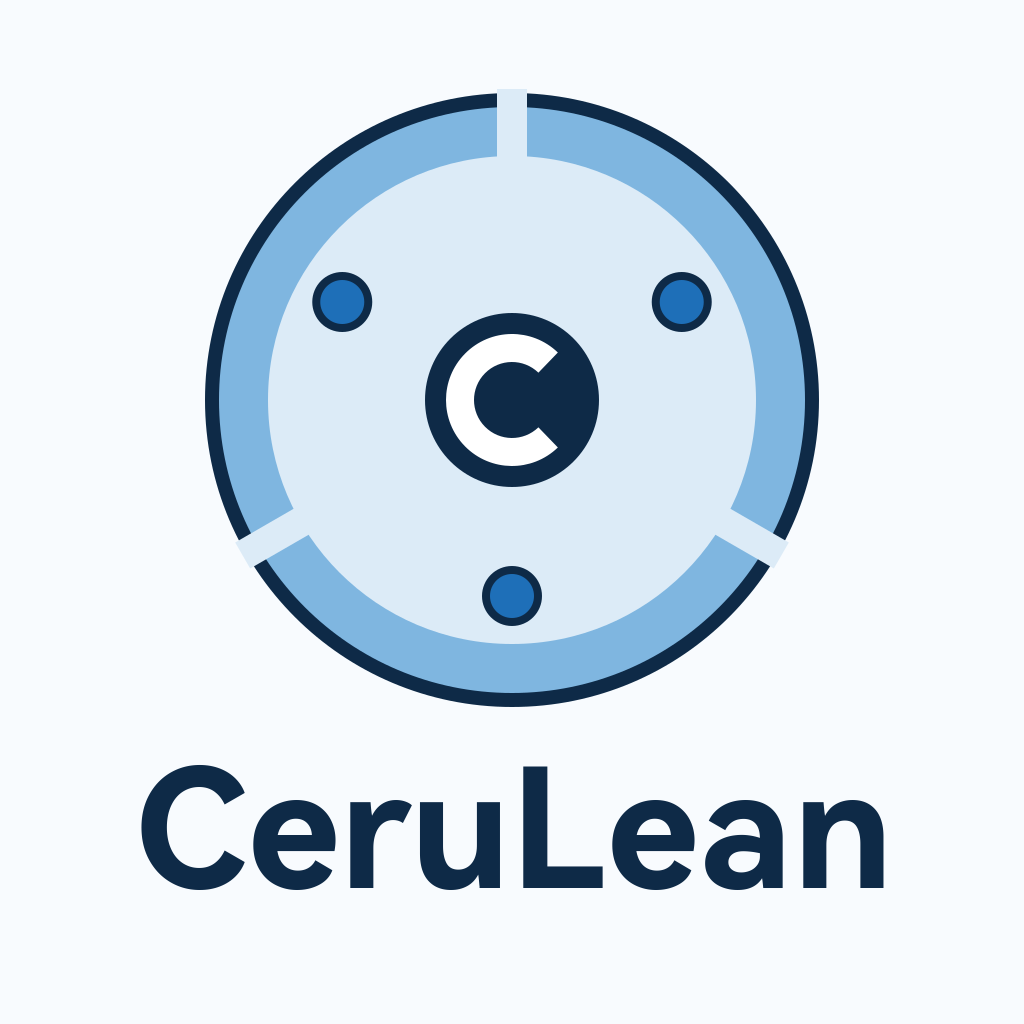
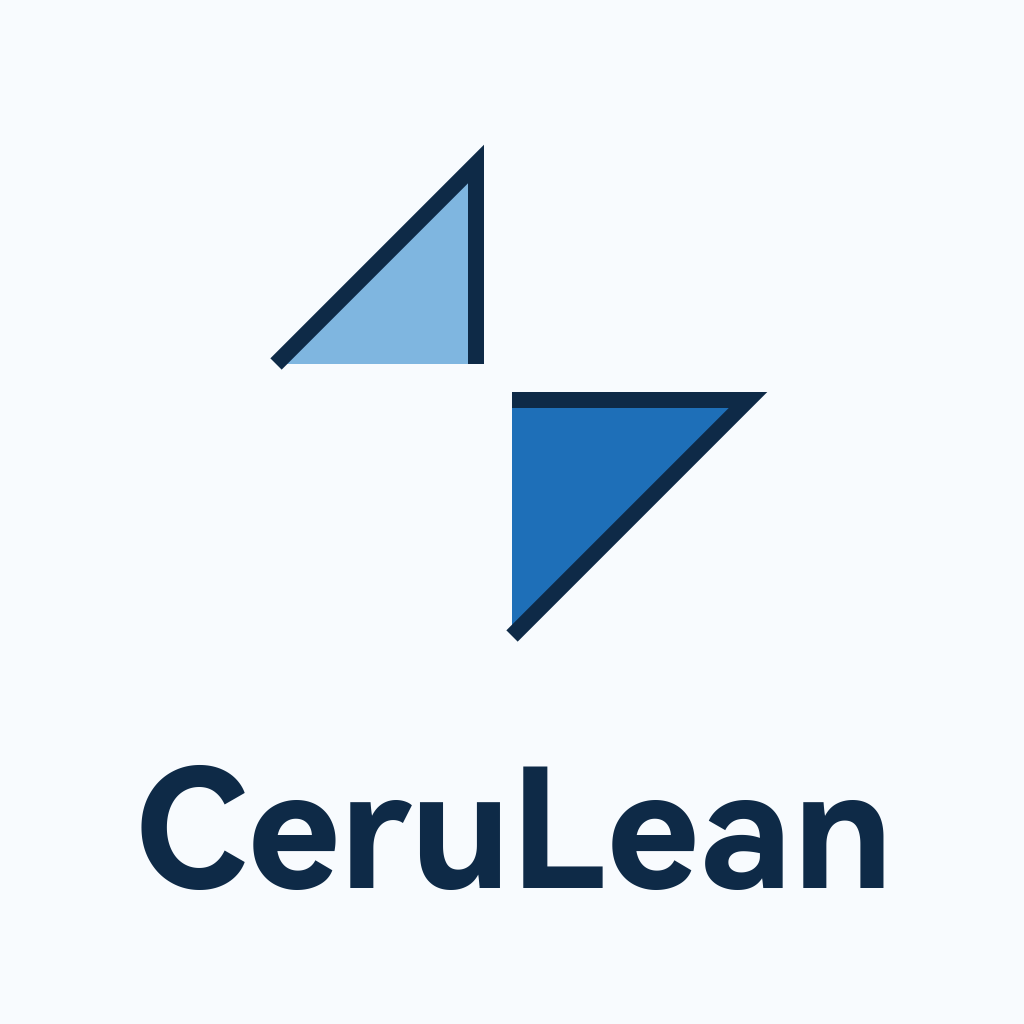
重画图标：两个直角顶点相对的直角三角形（借"跨区域交接"这一具体事物抽象）
用户定稿的构图：**两个直角三角形，直角顶点相对，分居左上与右下，右下略大**。
上版（圆形底盘 + 三条分区缝 + C 字徽）被判"太随意"，这版刻意只留两个形状 + 字标。

* 几何（全部参数化在 gen_icon.py 头部）：直角边**与坐标轴平行**（外缘稳定、斜边自然
  形成主对角线）；左上腿长 200、右下 236（×1.18，"略大"），直角顶点间留 36 的间隙让
  "相对"看得清；并用 off = −(b−a)/2 把两个顶点整体平移，使**外接矩形仍以画面中心为中心**
  （右下更大但不让构图偏向一边——生成时会打印实算的外接矩形与中心供核对）。
* 借的具体事物 = 一次**交接/投递**：两块楔形沿对角线互相指向对方。这正是本项目最核心的
  那件事的图形抽象（AwaitableDispatch 投递、clone 两跳、EXP 链挂起/恢复都是把一块工作
  从一个区域交给另一个区域）；右下略大给出方向与轻重，避免中心对称的死板。
* 配色沿用原家族（青蓝 #7FB6E0 / #1E6FB8 + 深藏青 #0E2A47 描边与字标），去掉圆形底盘。

工具链修复与补齐：
* 新增 tools/icon/rasterize.sh（编译 + 渲染 1024/256 两档），栅格化器编译**必须加 rpath**：
  harmonybrew 的 cairo 不在默认库搜索路径里，否则二进制能链上但运行时
  报 "Error loading shared library libcairo.so.2"（踩过）。编译产物已加进 .gitignore。
* 保持只用 svg2png.c 支持的 rect/circle/line/path/text（**无 g/无 polygon/无渐变**），
  三角形一律走 <path> 的 M/L/Z + 扁平填充。
* NOTICE §5 补构图与设计意图说明。

实测：assets/icon.svg(768B) / icon.png(1024) / icon-256.png(256) 已重新生成，
两档均已目视核对（256 下两块形状与字标仍清晰可辨）。

Changed region(s): [[0.1875, 0.0625, 0.8125, 0.6875]]

diff --git a/tools/icon/gen_icon.py b/tools/icon/gen_icon.py
@@ -2,74 +2,79 @@
 # -*- coding: utf-8 -*-
 """生成 CeruLean 的图标 SVG。
 
-设计（与 AzureBranches 图标同族、但身份不同）:
-  AzureBranches = 浅青底 + 深藏青线条的"分支/迷宫"环 + 字标
-  CeruLean     = 青蓝底 + 深藏青线条的"分区残片"环（区域划分）+ C 字徽 + 字标
-  共同点: 圆形徽记 + 粗体字标 + 深色描边，保证一眼看出是同一系列。
+设计（2026-10-16 改版：用户定的构图）
+------------------------------------
+**两个直角三角形，直角顶点相对，分居左上与右下，右下略大。**
+
+借的具体事物 = 一次**交接/投递**：两块楔形沿对角线互相指向对方，直角顶点几乎相接。
+这正是本项目最核心的那件事在图形上的抽象——跨区域的工作交接
+（`AwaitableDispatch` 投递、clone 两跳、EXP 链的挂起/恢复都在把"一块工作"从一个区域
+交给另一个区域）。右下那块**略大**，让构图有方向与轻重，而不是中心对称的死板图形。
+
+几何（1024 画布，全部参数可调）
+-----------------------------
+* 令 a = 左上腿长，b = 右下腿长（b = a × RATIO > a），g = 顶点间沿单轴的半间隙；
+* 两块三角形的**直角边都与坐标轴平行**（于是外缘稳定、斜边自然形成主对角线）；
+* 直角顶点 V1 = C − (g,g) + off，V2 = C + (g,g) + off，
+  其中 C 是徽记中心，off = (−(b−a)/2, −(b−a)/2)；
+* off 的作用：让**整体外接矩形仍以 C 为中心**（右下更大但不让画面偏向一边）。可自行验算：
+      xmin = V1.x − a, xmax = V2.x + b  ⇒  (xmin+xmax)/2 = C.x
+* 左上三角形 = (V1.x−a, V1.y) → (V1.x, V1.y−a) → V1  （水平腿、竖直腿、斜边朝左上）
+  右下三角形 = V2 → (V2.x+b, V2.y) → (V2.x, V2.y+b)
+
+配色沿用原图标家族（青蓝 + 深藏青描边），去掉原来的圆形底盘与分区缝 —— 上版被判"太随意"，
+这版刻意只留两个形状 + 字标。
+
+渲染：`tools/icon/rasterize.sh`（cairo，见 svg2png.c）。
+注意 svg2png.c **只支持 rect/circle/line/path/text**：不能用 <g>/<polygon>/渐变，
+所以三角形一律用 <path> 的 M/L/Z，颜色走扁平填充。
 """
-import math, os
+import os
 
 W = H = 1024
-CX, CY, R = 512.0, 400.0, 300.0          # 徽记圆心与半径
-BG      = "#F8FBFE"
-LIGHT   = "#DCEBF7"                       # 区域填充（青蓝）
-MID     = "#7FB6E0"                       # 区域底色（次青蓝）
-DEEP    = "#0E2A47"                       # 深藏青：描边/字标
-ACCENT  = "#1E6FB8"                       # 强调色：核点
-SEAM_W  = 30                              # 分区缝隙宽度
-RIM_W   = 14                              # 外圈描边宽度
 
-def pol(r, deg):
-    t = math.radians(deg)
-    return (CX + r * math.cos(t), CY + r * math.sin(t))
+# ── 徽记中心与几何 ────────────────────────────────────────────────
+CX, CY = 512.0, 400.0     # 徽记中心（下方 y=888 留给字标）
+A = 200.0                 # 左上三角形腿长
+RATIO = 1.18              # 右下比左上大的比例（"略大"）
+B = A * RATIO
+G = 18.0                  # 两直角顶点间沿单轴的半间隙（留白，让"相对"看得清）
+OFF = -(B - A) / 2.0      # 让整体外接矩形仍居中
 
-def fmt(p):
-    return f"{p[0]:.2f} {p[1]:.2f}"
+V1 = (CX - G + OFF, CY - G + OFF)   # 左上：直角顶点（朝右下）
+V2 = (CX + G + OFF, CY + G + OFF)   # 右下：直角顶点（朝左上）
 
-def arc_path(cx, cy, r_out, r_in, gap_half_deg, sweep_through_deg):
-    """生成一个"粗环缺一口"的 C 形（填充路径，非描边）"""
-    a0 = gap_half_deg                      # 起点角
-    a1 = sweep_through_deg - gap_half_deg  # 终点角（顺时针经过 180°）
-    large = 1
-    po0 = (cx + r_out * math.cos(math.radians(a0)), cy + r_out * math.sin(math.radians(a0)))
-    po1 = (cx + r_out * math.cos(math.radians(a1)), cy + r_out * math.sin(math.radians(a1)))
-    pi1 = (cx + r_in  * math.cos(math.radians(a1)), cy + r_in  * math.sin(math.radians(a1)))
-    pi0 = (cx + r_in  * math.cos(math.radians(a0)), cy + r_in  * math.sin(math.radians(a0)))
-    return (f"M {fmt(po0)} "
-            f"A {r_out} {r_out} 0 {large} 1 {fmt(po1)} "
-            f"L {fmt(pi1)} "
-            f"A {r_in} {r_in} 0 {large} 0 {fmt(pi0)} Z")
+# ── 配色（与原图标同族）──────────────────────────────────────────
+BG     = "#F8FBFE"
+MID    = "#7FB6E0"        # 左上填充（次青蓝）
+ACCENT = "#1E6FB8"        # 右下填充（强调青蓝；更大更深，压住视觉重心）
+DEEP   = "#0E2A47"        # 深藏青：描边与字标
+STROKE = 16               # 描边宽度（1024 画布；小尺寸下仍能分辨）
 
-# ── 构图 ──────────────────────────────────────────────────────────
-SEAM_ANGLES   = (30, 150, 270)            # 三条缝 → 三个区域
-SECTOR_BISECT = (90, 210, 330)            # 三个区域的中线角（放核点）
+TL = [(V1[0] - A, V1[1]), (V1[0], V1[1] - A), V1]
+BR = [V2, (V2[0] + B, V2[1]), (V2[0], V2[1] + B)]
 
-parts = []
-parts.append(f'<!-- CeruLean Cores · 图标（由 tools/icon/gen_icon.py 生成，勿手改） -->')
-parts.append(f'<svg xmlns="http://www.w3.org/2000/svg" width="{W}" height="{H}" viewBox="0 0 {W} {H}">')
-# 背景
-parts.append(f'  <rect x="0" y="0" width="{W}" height="{H}" fill="{BG}"/>')
-# 徽记底盘
-parts.append(f'  <circle cx="{CX:.0f}" cy="{CY:.0f}" r="{R:.0f}" fill="{MID}" stroke="{DEEP}" stroke-width="{RIM_W}"/>')
-# 内圈（浅色区域，制造层次）
-parts.append(f'  <circle cx="{CX:.0f}" cy="{CY:.0f}" r="{R-56:.0f}" fill="{LIGHT}" stroke="none"/>')
-# 三条分区缝（用背景色切开，形成"区域"）
-for a in SEAM_ANGLES:
-    p = pol(R + RIM_W / 2 + 4, a)
-    parts.append(f'  <line x1="{CX:.0f}" y1="{CY:.0f}" x2="{fmt(p).split()[0]}" y2="{fmt(p).split()[1]}" '
-                 f'stroke="{LIGHT}" stroke-width="{SEAM_W}" stroke-linecap="butt"/>')
-# 三个区域的核点
-for a in SECTOR_BISECT:
-    p = pol(196, a)
-    parts.append(f'  <circle cx="{p[0]:.2f}" cy="{p[1]:.2f}" r="26" fill="{ACCENT}" stroke="{DEEP}" stroke-width="8"/>')
-# 中心：深色圆 + 白色 C 字徽
-parts.append(f'  <circle cx="{CX:.0f}" cy="{CY:.0f}" r="92" fill="{DEEP}" stroke="{LIGHT}" stroke-width="10"/>')
-parts.append(f'  <path d="{arc_path(CX, CY, 66, 38, 46, 360)}" fill="#FFFFFF" stroke="none"/>')
-# 字标
-parts.append(f'  <text x="{W/2:.0f}" y="888" font-family="HarmonyOS Sans, Noto Sans, DejaVu Sans, sans-serif" '
-             f'font-size="166" font-weight="700" text-anchor="middle" fill="{DEEP}">CeruLean</text>')
-parts.append('</svg>')
+
+def tri_path(pts):
+    (x0, y0), (x1, y1), (x2, y2) = pts
+    return f"M {x0:.2f} {y0:.2f} L {x1:.2f} {y1:.2f} L {x2:.2f} {y2:.2f} Z"
+
+
+parts = [
+    '<!-- CeruLean Cores · 图标（由 tools/icon/gen_icon.py 生成，勿手改）',
+    '     构图：两个直角顶点相对的直角三角形，左上小 / 右下略大；直角边与坐标轴平行。 -->',
+    f'<svg xmlns="http://www.w3.org/2000/svg" width="{W}" height="{H}" viewBox="0 0 {W} {H}">',
+    f'  <rect x="0" y="0" width="{W}" height="{H}" fill="{BG}"/>',
+    f'  <path d="{tri_path(TL)}" fill="{MID}" stroke="{DEEP}" stroke-width="{STROKE}"/>',
+    f'  <path d="{tri_path(BR)}" fill="{ACCENT}" stroke="{DEEP}" stroke-width="{STROKE}"/>',
+    f'  <text x="{W / 2:.0f}" y="888" font-family="HarmonyOS Sans, Noto Sans, DejaVu Sans, sans-serif" '
+    f'font-size="166" font-weight="700" text-anchor="middle" fill="{DEEP}">CeruLean</text>',
+    '</svg>',
+]
 
 out = os.path.join('assets', 'icon.svg')
 open(out, 'w', encoding='utf-8').write('\n'.join(parts) + '\n')
 print('已生成', out, f'({os.path.getsize(out)} 字节)')
+print(f'  左上腿长 {A:.0f} / 右下腿长 {B:.0f}（×{RATIO}）/ 顶点间隙 {2 * G:.0f}')
+print(f'  外接矩形 x {V1[0] - A:.0f}..{V2[0] + B:.0f}  y {V1[1] - A:.0f}..{V2[1] + B:.0f}'
+      f'  （中心 {(V1[0] - A + V2[0] + B) / 2:.0f},{(V1[1] - A + V2[1] + B) / 2:.0f}）')
